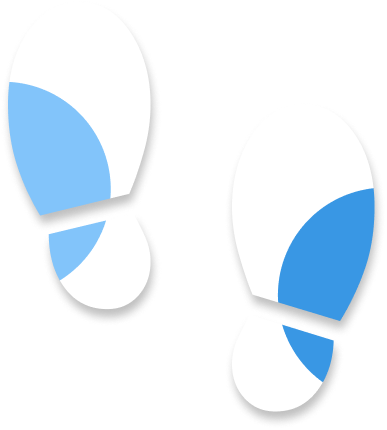
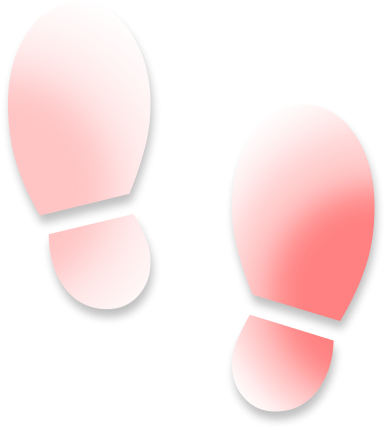
Feat: 발 사진 변경

Changed region(s): [[0.5891, 0.2721, 0.9922, 0.9674], [0.0, 0.1209, 0.3411, 0.6953]]

diff --git a/src/commponent/BluePageCommponent/FootPress.tsx b/src/commponent/BluePageCommponent/FootPress.tsx
@@ -1,6 +1,7 @@
 import styles from "./FootPress.module.css";
 import 오른발 from "../../assets/오른발.png";
 import 왼발 from "../../assets/왼발.png";
+import 정상발 from "../../assets/정상발.png";
 
 interface FootPressProps {
   leftPct: number | null;
@@ -8,27 +9,52 @@ interface FootPressProps {
 }
 
 const FootPress = ({ leftPct, rightPct }: FootPressProps) => {
-  const showLeft =
-    leftPct !== null && (rightPct === null || leftPct >= rightPct);
-  const showRight =
-    rightPct !== null && (leftPct === null || rightPct > leftPct);
+  console.log(`❤족저압 들어온다~~❤ 왼발:${leftPct}%, 오른발: ${rightPct}% `);
+
+  const hasBoth = leftPct !== null && rightPct !== null;
+
+  let showLeft = false;
+  let showRight = false;
+  let shownormal = false;
+
+  if (hasBoth) {
+    const total = leftPct + rightPct;
+    const leftRatio = leftPct / total;
+    const rightRatio = rightPct / total;
+
+    showLeft = leftRatio >= 0.6;
+    showRight = rightRatio >= 0.6;
+    shownormal = !showLeft && !showRight;
+  }
 
   return (
     <div className={styles.container}>
       <div className={styles.pressContainer}>
+
+        {shownormal && (
+          <div className={styles.footBox}>
+            <img src={정상발} alt="정상발" className={styles.footImg} />
+            <p className={styles.valueText}>{leftPct!.toFixed(2)}%</p>
+            <p className={styles.valueText}>{rightPct!.toFixed(2)}%</p>
+          </div>
+        )}
+
         {showLeft && (
           <div className={styles.footBox}>
             <img src={왼발} alt="왼발" className={styles.footImg} />
-            <p className={styles.valueText}>{`${leftPct!}%`}</p>
+            <p className={styles.valueText}>{leftPct!.toFixed(2)}%</p>
+            <p className={styles.valueText}>{rightPct!.toFixed(2)}%</p>
           </div>
         )}
 
         {showRight && (
           <div className={styles.footBox}>
             <img src={오른발} alt="오른발" className={styles.footImg} />
-            <p className={styles.valueText}>{`${rightPct!}%`}</p>
+            <p className={styles.valueText}>{leftPct!.toFixed(2)}%</p>
+            <p className={styles.valueText}>{rightPct!.toFixed(2)}%</p>
           </div>
         )}
+
       </div>
     </div>
   );

diff --git a/src/api/api.ts b/src/api/api.ts
@@ -100,7 +100,6 @@ export const getTotalSteps = async (
 };
 
 
-
 // ------------------------------
 // 메트릭 관련 API (8000)
 // ------------------------------

diff --git a/src/commponent/BluePageCommponent/FootPress.module.css b/src/commponent/BluePageCommponent/FootPress.module.css
@@ -1,0 +1,4 @@
+.valueText{
+    color: black;
+    font-size: 20px;
+}
